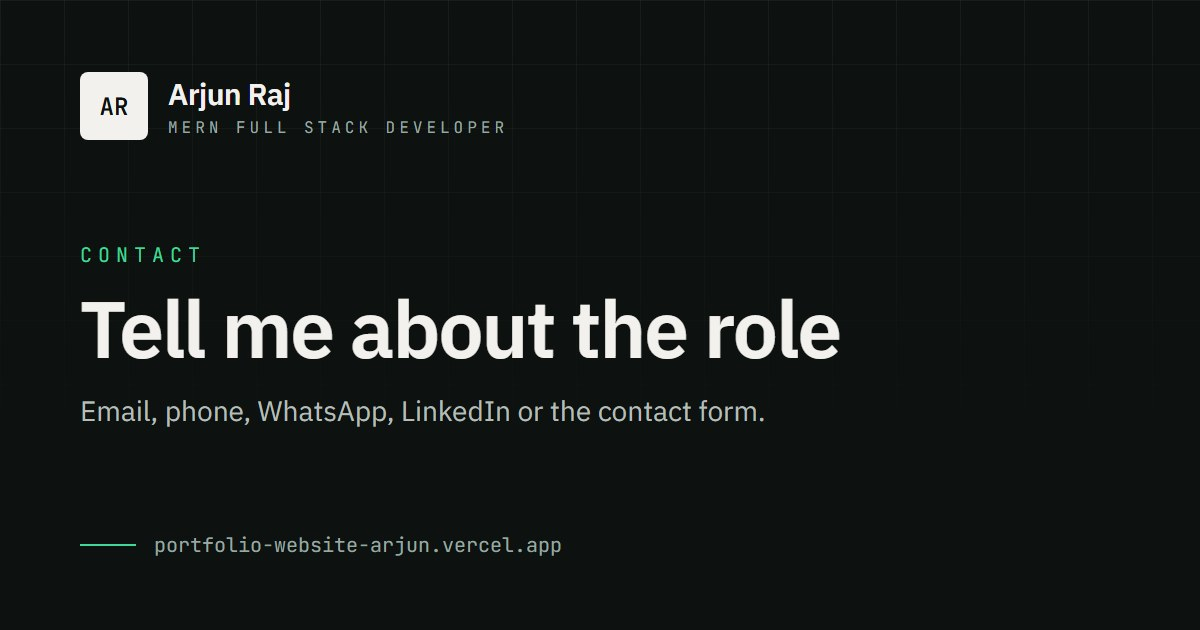
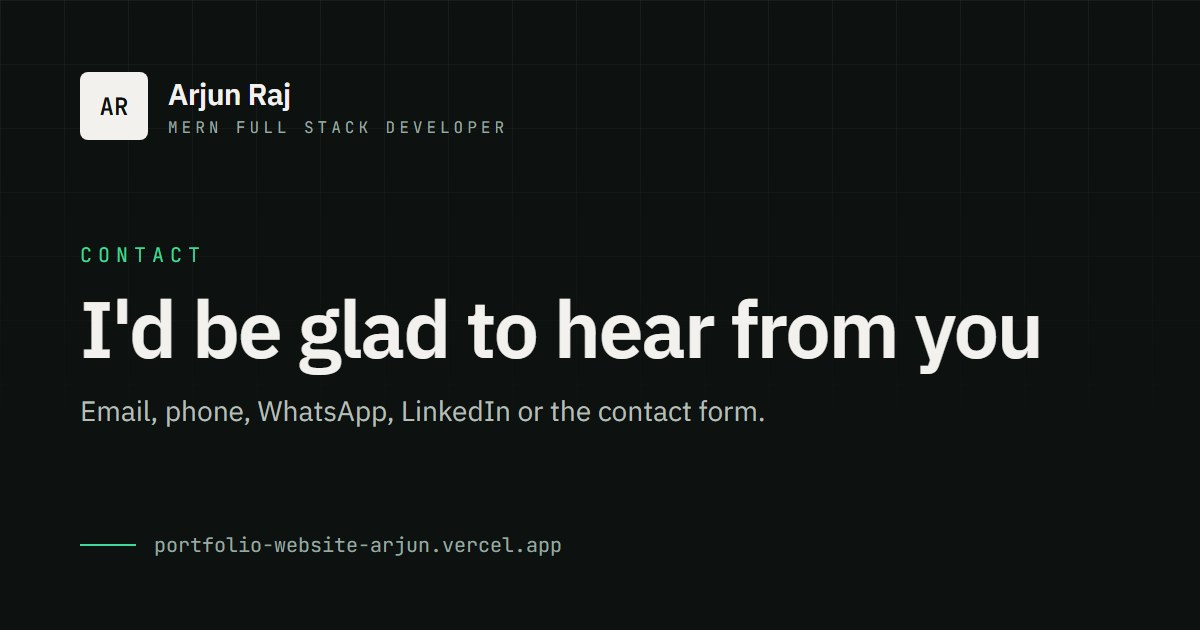
feat: update contact page and footer for improved messaging; add new ContactList component

Changed region(s): [[0.0617, 0.4524, 0.8633, 0.6032]]

diff --git a/src/components/layout/Footer.jsx b/src/components/layout/Footer.jsx
@@ -3,8 +3,7 @@ import { ArrowRight } from "lucide-react"
 
 import { Button } from "@/components/ui/button"
 import Socials from "@/components/shared/Socials"
-import ContactList from "@/components/shared/ContactList"
-import { site, navLinks, contactChannels } from "@/data/site"
+import { site, navLinks } from "@/data/site"
 import SectionDivider from "@/components/shared/SectionDivider"
 import Logo from "./Logo"
 import BackToTop from "./BackToTop"
@@ -18,20 +17,16 @@ const Footer = () => {
 
       <div className="container relative mx-auto">
 
-        <div className="grid grid-cols-1 gap-12 lg:grid-cols-12 lg:gap-16">
-          <div className="lg:col-span-7">
-            <h2 className="text-balance text-3xl font-semibold leading-[1.15] tracking-[-1px] md:text-5xl md:leading-[1.1]">Have a backend or full-stack role open?</h2>
-            <p className="mt-4 max-w-xl text-lg text-muted-foreground">I&apos;m looking for full-time work: {site.workSetup.charAt(0).toLowerCase() + site.workSetup.slice(1)}.</p>
-            <Button asChild size='cta' className='mt-8 w-full sm:w-auto'>
+        <div className="grid grid-cols-1 gap-8 lg:grid-cols-12 lg:items-end lg:gap-16">
+          <h2 className="text-balance text-3xl font-semibold leading-[1.15] tracking-[-1px] md:text-5xl md:leading-[1.1] lg:col-span-7">Working on something I could help with?</h2>
+          <div className="lg:col-span-5">
+            <p className="max-w-md text-lg leading-relaxed text-muted-foreground">Whether it&apos;s a role, a project or a question about my work, I&apos;m always glad to talk.</p>
+            <Button asChild size='cta' className='mt-6 w-full sm:w-auto'>
               <Link href='/contact'>
-                Discuss a role
+                Start a conversation
                 <ArrowRight size={18} aria-hidden="true" className="transition-transform duration-200 group-hover:translate-x-0.5" />
               </Link>
             </Button>
-          </div>
-          <div className="lg:col-span-5">
-            <p className="mb-3 font-mono text-xs font-medium uppercase tracking-[2px] text-muted-foreground">Or reach me directly</p>
-            <ContactList channels={contactChannels.filter((channel) => ['Email', 'WhatsApp', 'LinkedIn'].includes(channel.label))} />
           </div>
         </div>
 

diff --git a/src/app/contact/page.jsx b/src/app/contact/page.jsx
@@ -1,16 +1,16 @@
 import ContactForm from "@/components/sections/contact/ContactForm";
 import CopyDetails from "@/components/sections/contact/CopyDetails";
-import ContactList from "@/components/shared/ContactList";
+import ContactList from "@/components/sections/contact/ContactList";
 import { site, contactChannels, profileUrl } from "@/data/site";
 import { JsonLd, contactGraph } from "@/lib/structuredData";
 
 export const metadata = {
   alternates: { canonical: "/contact" },
   title: "Contact",
-  description: `Contact ${site.name}, ${site.role}, about a full-time role: message form, email, phone or WhatsApp.`,
+  description: `Contact ${site.name}, ${site.role}, about a role, a project or a question: message form, email, phone or WhatsApp.`,
   openGraph: {
     title: `Contact | ${site.name}`,
-    description: `Contact ${site.name}, ${site.role}, about a full-time role: message form, email, phone or WhatsApp.`,
+    description: `Contact ${site.name}, ${site.role}, about a role, a project or a question: message form, email, phone or WhatsApp.`,
   },
 };
 
@@ -33,9 +33,9 @@ export default function ContactPage() {
       <div className="grid grid-cols-1 xl:grid-cols-[1fr_1.3fr] gap-12 xl:gap-16">
         <div>
           <p className="font-mono text-xs sm:text-sm uppercase font-medium mb-4 text-brand tracking-[3px]">Contact</p>
-          <h1 className="mb-6 text-balance text-5xl font-semibold leading-[1.05] tracking-[-1.5px] xl:text-7xl">Tell me about the role</h1>
+          <h1 className="mb-6 text-balance text-5xl font-semibold leading-[1.05] tracking-[-1.5px] xl:text-6xl">I&apos;d be glad to hear from you</h1>
           <p className="text-lg leading-relaxed text-muted-foreground max-w-md">
-            I&apos;m looking for a full-time full-stack or backend role. Use the form, or reach me on any of the channels here.
+            Whether it&apos;s about a role, a project, some advice, or you simply want to reconnect, every message is welcome. Use the form, or reach me on whichever channel suits you best.
           </p>
           <p className="mt-4 font-mono text-xs text-muted-foreground">
             Based in {site.location} <span aria-hidden="true">·</span> {site.workSetup}

diff --git a/src/app/projects/page.jsx b/src/app/projects/page.jsx
@@ -2,6 +2,7 @@ import { Fragment } from "react";
 
 import ProjectIndex from "@/components/sections/projects/ProjectIndex";
 import ProjectSection from "@/components/sections/projects/ProjectSection";
+import ConfidentialNote from "@/components/sections/projects/ConfidentialNote";
 import SectionDivider from "@/components/shared/SectionDivider";
 import { projects } from "@/data/projects";
 import { JsonLd, projectsGraph } from "@/lib/structuredData";
@@ -50,6 +51,8 @@ export default function ProjectsPage() {
           </div>
         </section>
       ))}
+
+      <ConfidentialNote className="mt-20 border-y border-border" />
     </main>
   );
 }

diff --git a/src/components/sections/hero/Hero.jsx b/src/components/sections/hero/Hero.jsx
@@ -30,7 +30,7 @@ const Hero = () => {
                         <div className="mx-auto mb-12 flex w-full max-w-xs flex-col gap-y-3 md:w-auto md:max-w-none md:flex-row md:gap-x-3 xl:mx-0">
                             <Button asChild size='cta'>
                                 <Link href='/contact'>
-                                    Discuss a role
+                                    Start a conversation
                                     <ArrowRight size={18} className="transition-transform duration-200 group-hover:translate-x-0.5" />
                                 </Link>
                             </Button>

diff --git a/src/data/projects.js b/src/data/projects.js
@@ -446,5 +446,5 @@ export const projects = [
 
 export const confidentialNote = {
     title: "More I can't show here",
-    text: "These are the projects I can share publicly. Several more, built for clients and past employers, are confidential, so I don't publish them. I'm glad to talk them through directly in an interview."
+    text: "These are the projects I can share publicly. Several more, built for clients and past employers, are confidential, so I don't publish them here. I'm happy to talk about them one to one."
 }

diff --git a/src/components/layout/MobileSheet.jsx b/src/components/layout/MobileSheet.jsx
@@ -34,7 +34,7 @@ const MobileSheet = ({ open, onOpenChange, triggerRef }) => {
 
         <div className="relative flex flex-col gap-y-6">
           <Button asChild size='cta' className='w-full'>
-            <Link href='/contact' onClick={close}>Discuss a role <Send size={18} aria-hidden="true" /></Link>
+            <Link href='/contact' onClick={close}>Start a conversation <Send size={18} aria-hidden="true" /></Link>
           </Button>
           <Socials
             containerStyles='flex justify-center gap-x-2'

diff --git a/CLAUDE.md b/CLAUDE.md
@@ -92,7 +92,7 @@ Rules for new code:
 
 - `app/layout.jsx` wraps every page in `ThemeProvider` (next-themes, `attribute='class'`, `defaultTheme='system'` with `enableSystem` since 2026-11-12, so a first visit follows the visitor's OS setting and the toggle overrides it) and renders `Header` and `Footer`. Its `metadata` sets a title template (`%s | Arjun Raj`), so each page's `metadata.title` only needs the page name.
 - `app/template.jsx` wraps each page in a CSS fade-in (`animate-in fade-in` from tailwindcss-animate, in a `div`; each page provides its own `<main>`). Don't swap it for a JS animation that starts at `opacity: 0`: the page content would stay invisible until JavaScript ran, and it did get stuck that way once. It's a server component; the scroll-progress bar on the right edge is the client component `layout/ScrollProgress.jsx`, which writes its transform directly once per frame (no React state on scroll).
-- The site targets **full-time roles** (owner's choice; not freelance clients). The hero shows `site.availability` ("Open to full-time roles") with a static green dot and `site.currentRole` ("Currently at Avaibe"), and a mono line with `site.location` ("Kochi, India (UTC+5:30)") and `site.workSetup` ("Remote worldwide, or hybrid in Kochi"), repeated on the contact page; the owner chose those on 2026-11-12 (remote worldwide, remote in India, or on-site/hybrid in Kochi; they didn't pick relocation, and asked not to publish a notice period or invented metrics). `site.cvUrl` is `/arjun-raj-resume.pdf`, the owner's résumé hosted in `public/` (moved off Google Drive on 2026-11-12 so it opens in the browser's own PDF viewer, works on networks that block Drive, and keeps the URL on the site). The hero button says "View résumé" (the word "résumé" was chosen over "CV" for American readers; one button, no separate download button). To update it, replace the file in `public/` with the same name and redeploy; it isn't long-cached, so no rename is needed. The Privacy Policy no longer lists Google Drive; the footer CTA ("Have a backend or full-stack role open?" with a large solid "Discuss a role" button to `/contact`, the main action, and "or email ..." as a small mono link under it; the owner asked on 2026-11-18 for the contact page to be the obvious next step from the bottom of every page) and the contact page (h1 "Tell me about the role") speak to hiring managers. Copy pass of 2026-11-18 (owner's request: replace phrases that every portfolio uses): section headings are built from the owner's own facts instead of generic labels: Experience "From Java intern to full-stack developer", Selected projects is "A selection of products I've built" with a "Full write-ups" button to `/projects` (never a project count: the owner has built more than these, including confidential client and employer work they can't show, so a number like "Four products" or "All 4 projects" would understate them; `/projects` doesn't show per-group counts either), Skills "Backend first, from the database to the browser" (the owner felt "Node.js on the server, React in the browser" made the stack sound narrower than it is), Education "An MCA in AI and ML, and two security certifications" (count from the data). Buttons: hero and mobile menu "Discuss a role" (not "Contact me"), "Full write-ups" (not "See all projects"), "Copy contact details", accordion "Highlights" (not "Key highlights"); the nav says "Projects", not "My Projects". Deliberately unchanged: the hero h1 "Hello, my name is Arjun Raj" (the owner likes it), form labels, "Send message", "Privacy Policy" and other wording that is common because it's the clearest. Don't bring back "Get in touch", "Contact me", "Hiring for...", "Where I've worked" or "Tools and strengths I work with", and don't name the employer in home page headings. Socials are LinkedIn and GitHub only (X, Instagram and Facebook were removed as unprofessional for this audience).
+- The site showcases the owner's skill and work first; a full-time role is one outcome, not the only one (owner, 2026-11-18: "This portfolio is not only for aiming interviews or getting a job. It's for showcasing my skill"). So calls to action invite any conversation ("Start a conversation"), not just hiring, while the hero still states the owner is open to full-time roles (not freelance clients). The hero shows `site.availability` ("Open to full-time roles") with a static green dot and `site.currentRole` ("Currently at Avaibe"), and a mono line with `site.location` ("Kochi, India (UTC+5:30)") and `site.workSetup` ("Remote worldwide, or hybrid in Kochi"), repeated on the contact page; the owner chose those on 2026-11-12 (remote worldwide, remote in India, or on-site/hybrid in Kochi; they didn't pick relocation, and asked not to publish a notice period or invented metrics). `site.cvUrl` is `/arjun-raj-resume.pdf`, the owner's résumé hosted in `public/` (moved off Google Drive on 2026-11-12 so it opens in the browser's own PDF viewer, works on networks that block Drive, and keeps the URL on the site). The hero button says "View résumé" (the word "résumé" was chosen over "CV" for American readers; one button, no separate download button). To update it, replace the file in `public/` with the same name and redeploy; it isn't long-cached, so no rename is needed. The Privacy Policy no longer lists Google Drive; the footer CTA is "Working on something I could help with?" on the left, and on the right (bottom-aligned with the heading) "Whether it's a role, a project or a question about my work, I'm always glad to talk." with a "Start a conversation" button to `/contact`. The owner wants the contact page to be the obvious next step from the bottom of every page, but the footer doesn't repeat the contact details: they live only on `/contact`. The contact page welcomes everyone, not only recruiters (owner's request, 2026-11-18: "Tell me about the role" felt arrogant, since people also write for advice, introductions or to reconnect): h1 "I'd be glad to hear from you" and an intro naming a role, a project, advice or reconnecting. Home and `/projects` end with `ConfidentialNote` ("More I can't show here", text in `data/projects.js`): the owner has built more projects for clients and past employers that are confidential and can only be discussed directly, so the site never states a project count. The contact page's channel list is `sections/contact/ContactList.jsx`, fed by `contactChannels` in `data/site.js`. Copy pass of 2026-11-18 (owner's request: replace phrases that every portfolio uses): section headings are built from the owner's own facts instead of generic labels: Experience "From Java intern to full-stack developer", Selected projects is "A selection of products I've built" with a "Full write-ups" button to `/projects` (never a project count: the owner has built more than these, including confidential client and employer work they can't show, so a number like "Four products" or "All 4 projects" would understate them; `/projects` doesn't show per-group counts either), Skills "Backend first, from the database to the browser" (the owner felt "Node.js on the server, React in the browser" made the stack sound narrower than it is), Education "An MCA in AI and ML, and two security certifications" (count from the data). Buttons: hero, footer and mobile menu "Start a conversation" (not "Contact me", and not the job-only "Discuss a role"), "Full write-ups" (not "See all projects"), "Copy contact details", accordion "Highlights" (not "Key highlights"); the nav says "Projects", not "My Projects". Deliberately unchanged: the hero h1 "Hello, my name is Arjun Raj" (the owner likes it), form labels, "Send message", "Privacy Policy" and other wording that is common because it's the clearest. Don't bring back "Get in touch", "Contact me", "Discuss a role", "Hiring for...", "Have a backend or full-stack role open?", "Where I've worked" or "Tools and strengths I work with", and don't name the employer in home page headings. Socials are LinkedIn and GitHub only (X, Instagram and Facebook were removed as unprofessional for this audience).
 - Pages: `/` (Hero, About, Experience, Selected projects, Skills, Education, in the order recruiters read, with a `SectionDivider` between each), `/projects`, `/contact`, `/privacy` and `/terms`, plus `app/not-found.jsx`, a styled 404 in the same layout (eyebrow "404", h1 "Page not found", buttons to Home and Projects, `robots: noindex`). The two legal pages share `sections/legal/LegalPage.jsx`, and their wording is in `data/legal.js`. Keep it accurate to what the site really does (contact form via Web3Forms; the Mozhi AI chat widget in `layout.jsx`, which loads on every page, sends messages to `mozhiai.duckdns.org/api/v1`, keeps the conversation server-side and stores a visitor ID and conversation ID in local storage, with no cookies; no analytics; `theme` in local storage; no motion sensors; and the third-party services listed). If you add analytics, cookies or a new service, update the Privacy Policy and its date. The footer links to both.
 - `sections/projects/FeaturedProjects.jsx` is the home page's "Selected projects" section: a compact teaser (the full details live on `/projects`, so don't repeat stacks or buttons here). It's a ruled list, not a card grid (owner's request, 2026-11-12: card grids looked like every other portfolio): each row is one link to `/projects#slug` with a mono number, title with a brand arrow, 2-line tagline, "Work project" or "Personal project" in mono (never the company name: the owner wants the home page about their own growth, not their employer's; Avaibe appears only in Experience and on `/projects`), and from `md` a thumbnail on the right (13rem column, 16rem on `xl`; the owner asked for them to be bigger on 2026-11-12), plus a "Full write-ups" button. The owner considered square cards here and chose to keep the rows. Rows get a faint `bg-muted` tint on hover. It reads `data/projects.js`, so new projects appear automatically.
 - `/projects` layout (owner asked for a more professional, classic page): the header, then the eyebrow "Portfolio" and the h1 "Projects" with a specific intro line, then `ProjectIndex` (a ruled list of numbered links to each project, 2 columns on `md` and 4 on `xl`; taglines hidden below `md`), then a "Work projects" and a "Personal projects" group (`personal: true`), each with an h2. Project titles are h3. Projects are numbered in data order and alternate sides (`reverse`, gallery on the right) on `xl`. Galleries sit in a simple browser-window frame (three dots, the project title and an image counter).
@@ -118,7 +118,7 @@ Rules for new code:
 - The owner's photo is `public/images/arjun-photo.webp`: their original photo, unedited (only resized to 360Ã—640). **Don't modify it**: no background removal, colour grading, fades or cropping. The owner explicitly wants it shown normally. About shows it small (`w-20` on phones so the heading fits in 3 lines, `sm:w-24`/`md:w-28`/`xl:w-32`) as a plain rounded rectangle beside the "About me" label and heading, with a small lift on hover only. The Next.js image cache keys on the URL, so rename the file when you replace the photo.
 - SEO: the live address is `site.url` in `data/site.js`: `https://portfolio-website-arjun.vercel.app` (free Vercel hosting). `www.arjundev.in` is listed in Vercel but isn't registered or pointed at Vercel, so don't use it until the owner sets it up. The root layout sets `metadataBase`, Open Graph and a Twitter card; each page sets its own `alternates.canonical` (never put the canonical in the layout, or every page would point at `/`). `app/sitemap.js` and `app/robots.js` generate `/sitemap.xml` and `/robots.txt`; add new routes to the sitemap. The layout also sets `viewport.themeColor` (light and dark), `applicationName`, `authors`, `keywords` and `robots`.
 - Structured data: `lib/structuredData.js` builds JSON-LD from the data files only (no invented facts): the home page gets `WebSite` + `ProfilePage` + `Person` (role, intro, photo, email, phone, LinkedIn/GitHub, current employer, universities, certifications, skills), `/projects` a `CollectionPage` with an `ItemList` of the projects, and `/contact` a `ContactPage`. Pages render it with `<JsonLd data={â€¦} />`.
-- Share images are static files, one per route: `app/opengraph-image.jpg`, `app/projects/opengraph-image.jpg` and `app/contact/opengraph-image.jpg` (1200Ã—630, 60â€“75 KB, each with an `opengraph-image.alt.txt`). They were re-rendered on 2026-11-18 in the current design (dark ink background, faint grid, IBM Plex Sans and JetBrains Mono taken from the build's `static/media`, the green accent) from an HTML template in headless Chrome, then saved as JPG with Pillow; the contact image says "Tell me about the role". If the design or a headline changes, re-render them the same way. `next/og` (`ImageResponse`) can't be used: in Next 14.2.5 it crashes on Windows builds (it builds file paths with backslashes at import time). If a project is added, re-render the Projects image, since it lists the project names.
+- Share images are static files, one per route: `app/opengraph-image.jpg`, `app/projects/opengraph-image.jpg` and `app/contact/opengraph-image.jpg` (1200Ã—630, 60â€“75 KB, each with an `opengraph-image.alt.txt`). They were re-rendered on 2026-11-18 in the current design (dark ink background, faint grid, IBM Plex Sans and JetBrains Mono taken from the build's `static/media`, the green accent) from an HTML template in headless Chrome, then saved as JPG with Pillow; the contact image says "I'd be glad to hear from you". If the design or a headline changes, re-render them the same way. `next/og` (`ImageResponse`) can't be used: in Next 14.2.5 it crashes on Windows builds (it builds file paths with backslashes at import time). If a project is added, re-render the Projects image, since it lists the project names.
 - Icons: `app/favicon.ico` (16/32/48) and `app/apple-icon.png` (180Ã—180) are rendered from `app/icon.svg` (the old `favicon.ico` was the default Next.js/Vercel one). `app/manifest.js` serves `/manifest.webmanifest` with `public/icon-192.png` and `public/icon-512.png`.
 - `next.config.mjs` sends security headers on every route: a Content-Security-Policy (added 2026-11-12; `'self'` plus only the hosts the site really uses: `mozhiai.duckdns.org` for the chat widget, `api.web3forms.com`, the three Radio Browser servers, and `media-src https:` for radio streams; `'unsafe-inline'` is needed for Next's hydration scripts and Tailwind, and `'unsafe-eval'` plus `ws:` are added only in development for hot reload. If you add a service, add its host here or it will be blocked; the radio and chat widget were tested against it), `Cross-Origin-Opener-Policy: same-origin`, nosniff, `X-Frame-Options: SAMEORIGIN`, `strict-origin-when-cross-origin`, HSTS, and a `Permissions-Policy` that blocks camera, microphone, location and the motion sensors and one-year caching for images in `/images` and `/projects/<slug>/`, the icons and the Lottie JSON. The cache rule only matches image file extensions, so the `/projects` page itself isn't cached. Rename an image when you replace it.
 - The favicon is `src/app/icon.svg` (the "AR" monogram), which Next.js picks up automatically.
@@ -128,11 +128,11 @@ Rules for new code:
 - Theme colours are HSL CSS variables in `src/app/globals.css` (`:root` and `.dark`), exposed through `tailwind.config.js`. Redesign of 2026-11-12 (owner found the blue glass look too common): warm paper background (`45 30% 96%`) and near-black green ink in light mode, deep green-black (`160 18% 6%`) in dark mode, and one accent, `brand` (deep green in light, mint in dark), used for eyebrows, the active nav underline, dots, the divider and text selection. Use `text-brand`/`bg-brand`, not sky or blue. Dark mode is class-based.
 - Accessibility baseline (2026-11-12): the layout has a skip-to-content link, and every page's `<main>` has `id="main"`. A global `:focus-visible` rule in `globals.css` draws a 2px `ring`-coloured outline on anything that doesn't set its own ring, so plain links (nav, footer, socials) show keyboard focus. Every link and button is at least 24px tall and wide (WCAG 2.2 target size): footer links get `py-1`, the hero socials are 36px boxes, the carousel dots sit in 24px buttons. Lighthouse couldn't be installed here (npm download blocked), so the checks were done with a headless-Chrome script over the DevTools protocol: LCP, CLS and long tasks via PerformanceObserver, DOM checks for alt text, names, heading order, labels, landmarks and target sizes, and overflow at 360 to 1920px. The Mozhi chat widget loads with `next/script` `strategy="lazyOnload"`, so it never competes with the page's own load. Text colours were checked at WCAG AA (4.5:1) in both themes; form fields use the darker `--input` token so their outlines reach 3:1. `openGraph.locale` is `en_US`. The owner asked for UI changes only: don't reword site copy (projects, legal pages) as part of design work.
 - Fonts (`next/font`): IBM Plex Sans for text (`font-sans`) and JetBrains Mono for small labels (`font-mono`: eyebrows, nav, badges, logo monogram).
-- Type and layout rules from the 2026-11-18 audit (measured with a headless-Chrome script, not by eye): large headings always set their own line height (`leading-[1.1]` to `[1.15]`; Tailwind's `text-5xl` defaults to 1.0, which made two-line headings collide). Page titles (`h1` on `/projects`, `/contact`, the 404) are `text-5xl xl:text-7xl`, a step above the `md:text-5xl` section `h2`s, so the hierarchy is visible; the legal pages use `xl:text-6xl`. Every primary or secondary call to action uses `size='cta'` (48px tall, 15px text, `rounded-lg`); `size='sm'` is only for in-content buttons like "Visit live site". Body text is capped at a comfortable line length (`max-w-[68ch]` in Experience, `max-w-[75ch]` in project accordions). Thumbnails use the same 2:1 ratio as the 2:1 screenshots, so nothing is cropped. The footer CTA is one left-aligned column (heading, sentence, then the button with the email beside it), not a heading with a floating right-hand column.
+- Type and layout rules from the 2026-11-18 audit (measured with a headless-Chrome script, not by eye): large headings always set their own line height (`leading-[1.1]` to `[1.15]`; Tailwind's `text-5xl` defaults to 1.0, which made two-line headings collide). Page titles (`h1` on `/projects`, `/contact`, the 404) are `text-5xl xl:text-7xl`, a step above the `md:text-5xl` section `h2`s, so the hierarchy is visible; the legal pages use `xl:text-6xl`. Every primary or secondary call to action uses `size='cta'` (48px tall, 15px text, `rounded-lg`); `size='sm'` is only for in-content buttons like "Visit live site". Body text is capped at a comfortable line length (`max-w-[68ch]` in Experience, `max-w-[75ch]` in project accordions). Thumbnails use the same 2:1 ratio as the 2:1 screenshots, so nothing is cropped. The footer CTA is a 7/5 grid: the heading on the left, the sentence and button on the right, bottom-aligned with the heading (`lg:items-end`); the button always sits under its sentence, never floating alone in a column, and the right half is never left empty.
 - Editorial layout, no cards (owner's request, 2026-11-12: "card per section" looked like a million other portfolios). Sections, the footer, the contact page, the project index and each project are laid out as ruled rows: a 1px `border-border` line between items, mono labels on the left and content on the right (`Row` in `SectionParts`), with whitespace instead of boxes. Boxes remain only where something needs an edge: form inputs, the gallery frame (`ImageCarousel`), the radio button and panel, and the mobile sheet. Those use `.surface` / `.surface-raised`; `.site-header` is a plain full-width bar with a bottom hairline. No glass, no backdrop blur on content, no blurred glow blobs, no white rim borders or inner highlights. The old `.glass*` and `.card-surface` classes and `SectionGlows` were removed. The background (`SiteBackground`) is flat paper with a faint grid fading out downward.
 - Corners are crisp (the owner asked for sharper edges everywhere): the radio panel uses `rounded-xl` (12px); medium pieces (CTA buttons, the gallery frame, the photo) use `rounded-lg`; small pieces (buttons, inputs, the logo monogram, thumbnails) use `rounded-md`. Only dots and the radio button are `rounded-full`. Surfaces use a 1px `border-border` hairline and almost no shadow. Don't go back to `rounded-2xl`/`3xl` or big soft shadows.
 - Buttons (`ui/button.jsx`) are rectangles with small rounded corners, never pills: `rounded-md` by default, and `rounded-lg` for `size='cta'`, the standard call-to-action size. The owner rejected glass, gradient and pill buttons and chose a minimal solid style: `default` is solid, and `outline` is transparent with a thin border. Other controls use the same shape (nav, icon buttons, badges), except the decorative circles.
-- The header has no CTA button (the owner removed "Hire me"); the Contact nav link does that job. The CTAs are in the hero ("Discuss a role"), the footer (a large "Discuss a role" button plus an email link) and the mobile menu ("Discuss a role"). The contact page's h1 is "Tell me about the role".
+- The header has no CTA button (the owner removed "Hire me"); the Contact nav link does that job. The CTAs are in the hero, the footer and the mobile menu, all "Start a conversation". The contact page's h1 is "I'd be glad to hear from you".
 - Cards don't tilt or move with the mouse or the phone's gyroscope. That effect (`TiltCard`, `lib/gyro.js`) was removed for the "not vibe coded" rule, so don't bring it back.
 - Sections are separated by `shared/SectionDivider.jsx` (owner's choice): a 1px line fading in from both ends with a brand-green centre and a streak of light running along it in a seamless CSS loop (`.divider-spark`). The owner removed the blurred glow: keep it to the line and its movement. It sits between the hero and About, between projects, and at the top of the footer, so every page has one before the footer.
 - To make a link look like a button, use `<Button asChild><Link â€¦/></Button>`. Don't put a `<Button>` inside a `<Link>`; that nests a button inside a link, which is invalid HTML.
